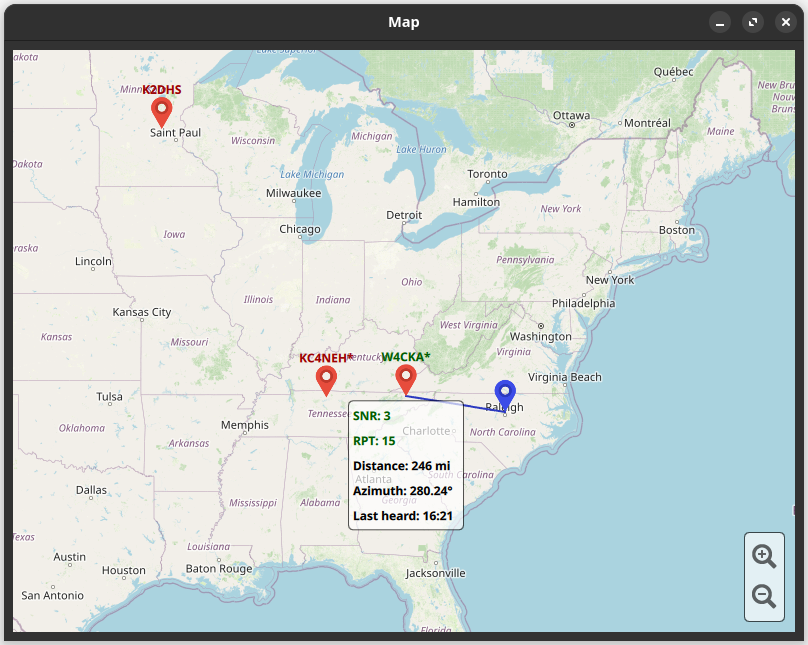
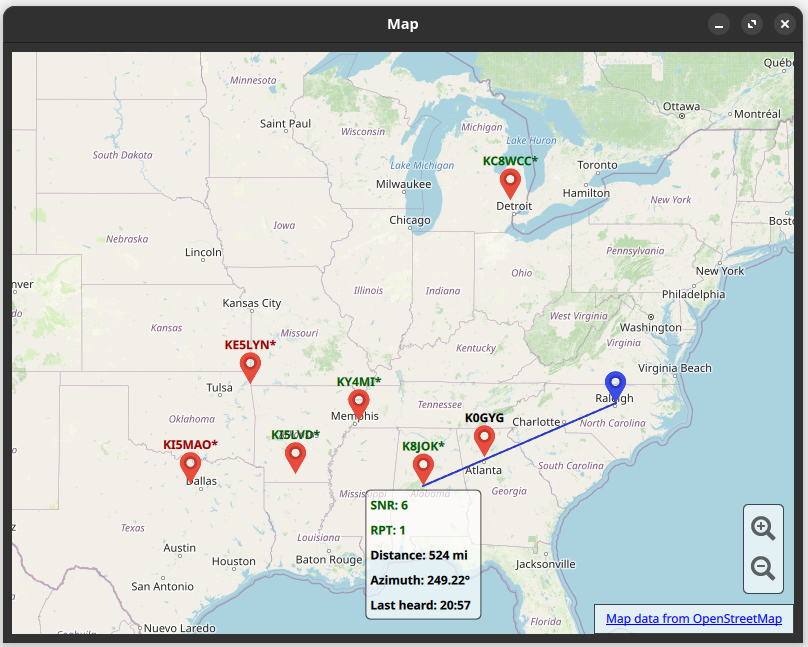
Adding OpenStreetMap attribution

diff --git a/src/map.qml b/src/map.qml
@@ -315,6 +315,38 @@ Map {
         CoordinateAnimation { duration: 500; easing.type: Easing.OutQuad }
     }
 
+    // Define our OpenStreetMap attribution component
+    Rectangle {
+        id: osmAttribution
+        width: 200
+        height: 30
+        z: parent.z + 100
+        color: "#AAFFFFFF"
+        border.width: 1
+        border.color: "#AA000000"
+        border.pixelAligned: true
+        radius: 0
+        anchors.bottom: parent.bottom
+        anchors.right: parent.right
+        anchors.topMargin: 0
+        anchors.rightMargin: 0
+        anchors.bottomMargin: 0
+        anchors.leftMargin: 0
+
+        MouseArea {
+            anchors.fill: parent
+            onClicked: Qt.openUrlExternally("https://osmfoundation.org/wiki/Licence/Attribution_Guidelines")
+
+            Text {
+                anchors.centerIn: parent
+                text: "Map data from OpenStreetMap"
+                font.pixelSize: 12
+                font.underline: true
+                color: "blue"
+            }
+        }
+    }
+
     // Define our map marker component
     Component
     {
@@ -635,7 +667,7 @@ Map {
         anchors.right: parent.right
         anchors.topMargin: 0
         anchors.rightMargin: 10
-        anchors.bottomMargin: 10
+        anchors.bottomMargin: 40
         anchors.leftMargin: 0
 
         ColumnLayout
